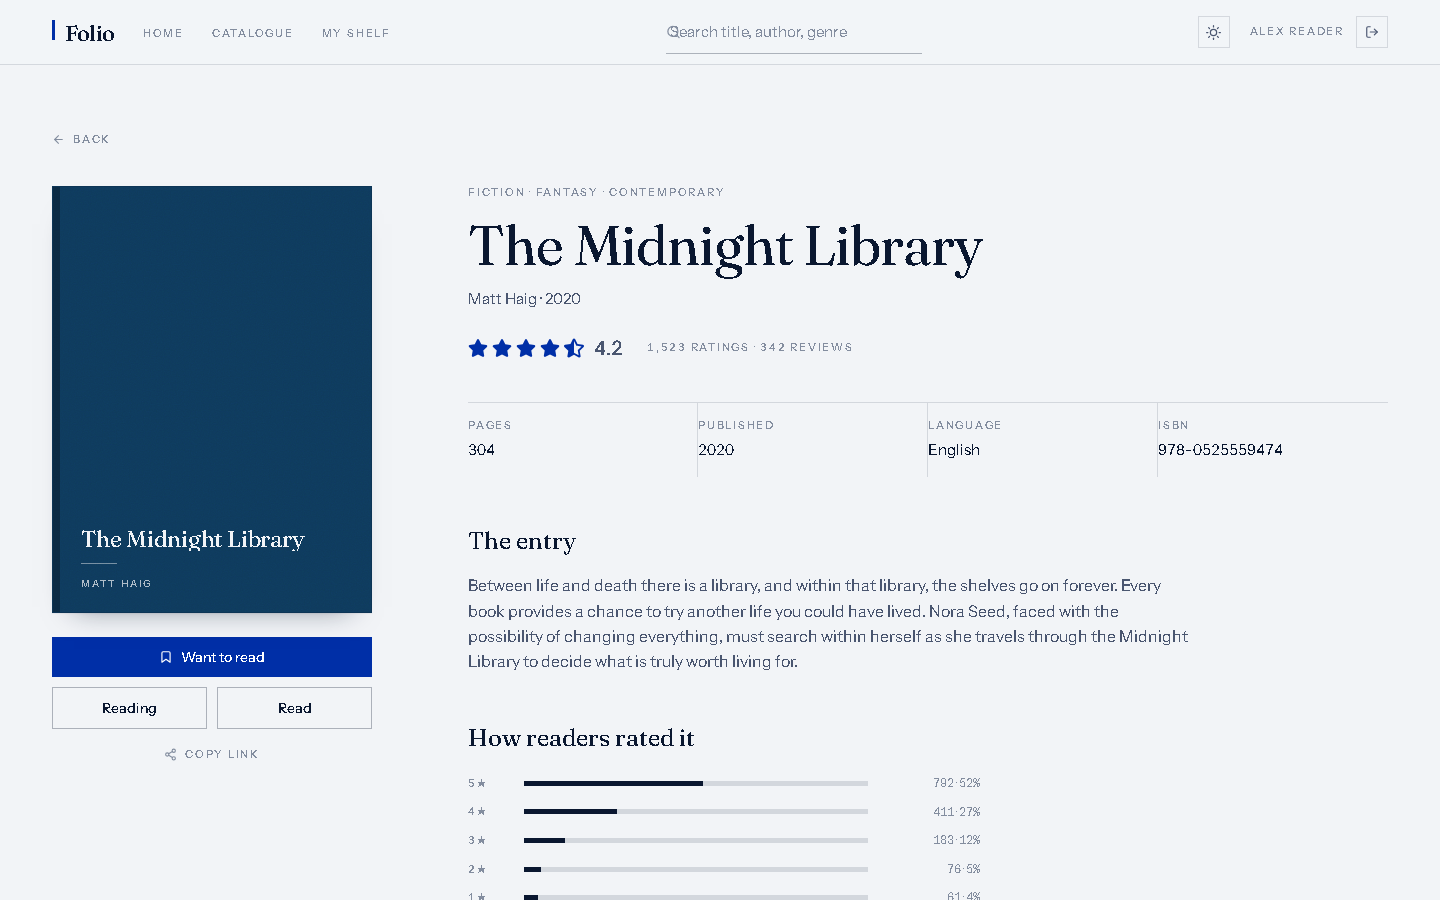
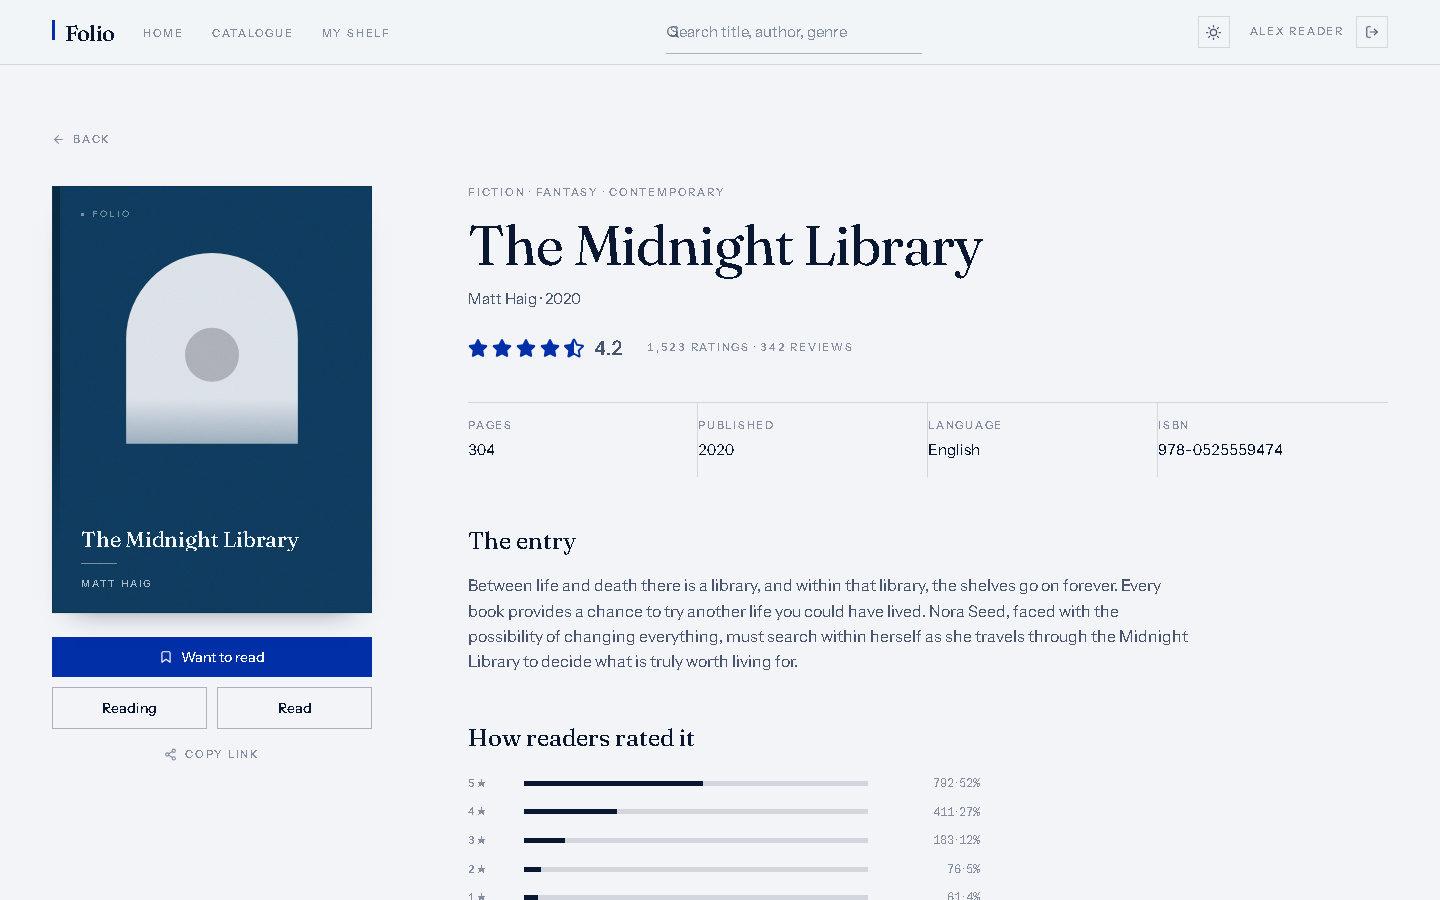
feat: composed cover artwork, aligned catalogue cards, tighter section rules

Changed region(s): [[0.0625, 0.28, 0.2188, 0.4978], [0.0938, 0.5911, 0.2188, 0.6222], [0.0312, 0.5911, 0.0625, 0.6844]]

diff --git a/src/components/common/BookCover.jsx b/src/components/common/BookCover.jsx
@@ -1,22 +1,132 @@
-// Typographic covers. Every book gets a designed jacket instead of a stock
-// photo: a colour field, a spine, the title set in the display serif, and a
-// printed grain. Deterministic per book, so covers never shuffle.
+// Designed jackets. No stock photography: every book gets a cover composed
+// from a colour field, a motif, a spine, and its own type — so the shelf reads
+// as artwork, loads instantly, and never breaks.
 
 const COVERS = [
-  { bg: '#002FA7', fg: '#FFFFFF' }, // International Klein Blue
-  { bg: '#0E3A5C', fg: '#F2F4F7' }, // Prussian
-  { bg: '#14453A', fg: '#F2F4F7' }, // Pine
-  { bg: '#3A2E5C', fg: '#F2F4F7' }, // Ink violet
-  { bg: '#7A2E2A', fg: '#F5EFE6' }, // Oxblood
-  { bg: '#57626F', fg: '#FFFFFF' }, // Slate
-  { bg: '#C9BFA8', fg: '#0A1730' }, // Bone
-  { bg: '#0B1B33', fg: '#C9BFA8' }, // Midnight
+  { bg: '#002FA7', fg: '#FFFFFF', motif: 'orbit' },
+  { bg: '#0E3A5C', fg: '#F2F4F7', motif: 'arch' },
+  { bg: '#14453A', fg: '#F2F4F7', motif: 'peak' },
+  { bg: '#3A2E5C', fg: '#F2F4F7', motif: 'grid' },
+  { bg: '#7A2E2A', fg: '#F5EFE6', motif: 'horizon' },
+  { bg: '#57626F', fg: '#FFFFFF', motif: 'stripes' },
+  { bg: '#C9BFA8', fg: '#0A1730', motif: 'waves' },
+  { bg: '#0B1B33', fg: '#C9BFA8', motif: 'frame' },
 ];
 
 const paletteFor = (book) => COVERS[(book.id * 5 + book.title.length) % COVERS.length];
 
+const Motif = ({ motif, fg }) => {
+  switch (motif) {
+    case 'orbit':
+      return (
+        <>
+          <circle cx="100" cy="104" r="56" fill={fg} fillOpacity="0.16" />
+          <circle cx="100" cy="104" r="38" fill={fg} fillOpacity="0.34" />
+          <circle cx="100" cy="104" r="19" fill={fg} fillOpacity="0.95" />
+          <rect x="36" y="164" width="128" height="2" fill={fg} fillOpacity="0.5" />
+        </>
+      );
+    case 'arch':
+      return (
+        <>
+          <path d="M46 178V112a54 54 0 0 1 108 0v66z" fill={fg} fillOpacity="0.9" />
+          <circle cx="100" cy="122" r="17" fill="#000" fillOpacity="0.22" />
+        </>
+      );
+    case 'peak':
+      return (
+        <>
+          <path d="M100 44 154 186H46z" fill={fg} fillOpacity="0.88" />
+          <circle cx="100" cy="72" r="11" fill="#000" fillOpacity="0.25" />
+          <rect x="36" y="196" width="128" height="2" fill={fg} fillOpacity="0.4" />
+        </>
+      );
+    case 'grid':
+      return (
+        <>
+          {[0, 1, 2].map((col) =>
+            [0, 1].map((row) => (
+              <rect
+                key={`${col}-${row}`}
+                x={36 + col * 44}
+                y={54 + row * 62}
+                width="34"
+                height="52"
+                fill={fg}
+                fillOpacity={0.22 + (col + row) * 0.2}
+              />
+            ))
+          )}
+        </>
+      );
+    case 'horizon':
+      return (
+        <>
+          <circle cx="100" cy="112" r="42" fill={fg} fillOpacity="0.92" />
+          <rect x="30" y="158" width="140" height="3" fill={fg} fillOpacity="0.85" />
+          <rect x="30" y="168" width="140" height="40" fill={fg} fillOpacity="0.16" />
+        </>
+      );
+    case 'stripes':
+      return (
+        <>
+          {[0, 1, 2, 3, 4].map((i) => (
+            <rect
+              key={i}
+              x={38 + i * 26}
+              y={40}
+              width={[7, 16, 7, 24, 7][i]}
+              height="118"
+              fill={fg}
+              fillOpacity={0.3 + i * 0.16}
+            />
+          ))}
+        </>
+      );
+    case 'waves':
+      return (
+        <>
+          {[0, 1, 2].map((i) => (
+            <path
+              key={i}
+              d={`M28 ${150 + i * 20}a72 34 0 0 1 144 0z`}
+              fill={fg}
+              fillOpacity={0.28 + i * 0.26}
+            />
+          ))}
+        </>
+      );
+    default:
+      return (
+        <>
+          <rect
+            x="28"
+            y="38"
+            width="144"
+            height="128"
+            fill="none"
+            stroke={fg}
+            strokeOpacity="0.5"
+            strokeWidth="1.5"
+          />
+          <rect
+            x="46"
+            y="56"
+            width="108"
+            height="92"
+            fill="none"
+            stroke={fg}
+            strokeOpacity="0.75"
+            strokeWidth="1.5"
+          />
+          <rect x="76" y="86" width="48" height="32" fill={fg} fillOpacity="0.92" />
+        </>
+      );
+  }
+};
+
 const BookCover = ({ book, className = 'aspect-[2/3]' }) => {
-  const { bg, fg } = paletteFor(book);
+  const { bg, fg, motif } = paletteFor(book);
 
   return (
     <figure
@@ -27,11 +137,33 @@ const BookCover = ({ book, className = 'aspect-[2/3]' }) => {
     >
       <span
         className="absolute inset-y-0 left-0 w-[7px]"
-        style={{ background: 'rgba(0,0,0,0.28)' }}
+        style={{ background: 'rgba(0,0,0,0.3)' }}
         aria-hidden="true"
       />
+
+      <svg
+        viewBox="0 0 200 300"
+        preserveAspectRatio="xMidYMid slice"
+        className="absolute inset-0 h-full w-full"
+        aria-hidden="true"
+      >
+        <Motif motif={motif} fg={fg} />
+      </svg>
+
+      {/* Scrim so the type stays legible over any motif. */}
+      <span
+        className="absolute inset-x-0 bottom-0 h-1/2"
+        style={{ background: `linear-gradient(to top, ${bg} 34%, transparent)` }}
+        aria-hidden="true"
+      />
+
+      <span className="absolute left-7 top-5 inline-flex items-center gap-2 text-[9px] font-medium uppercase tracking-[0.3em] opacity-45">
+        <span className="block h-[3px] w-[3px] bg-current" />
+        Folio
+      </span>
+
       <div className="relative flex h-full flex-col justify-end p-5 pl-7">
-        <h3 className="font-display text-[clamp(1.05rem,1.6vw,1.45rem)] leading-[1.1] tracking-[-0.01em] line-clamp-4">
+        <h3 className="font-display text-[clamp(1.05rem,1.5vw,1.4rem)] leading-[1.1] tracking-[-0.01em] line-clamp-3">
           {book.title}
         </h3>
         <span className="mt-3 block h-px w-9 bg-current opacity-45" aria-hidden="true" />

diff --git a/src/pages/HomePage.jsx b/src/pages/HomePage.jsx
@@ -9,20 +9,20 @@ import { getShelves } from '../lib/library';
 import { recommendBooks } from '../lib/recommend';
 import { useAuth } from '../hooks/useAuth';
 
-const SectionHead = ({ title, note, to, linkLabel = 'View all' }) => (
-  <div className="mb-9 flex flex-wrap items-end justify-between gap-4 border-b border-rule pb-4">
+const SectionHead = ({ title, note, to, count, linkLabel = 'View all' }) => (
+  <div className="mb-8 flex flex-wrap items-end justify-between gap-x-6 gap-y-2 border-b border-rule pb-3.5">
     <div>
       <h2 className="font-display text-[26px] leading-tight text-ink">{title}</h2>
       {note && <p className="mt-1.5 text-[13px] text-ink-2">{note}</p>}
     </div>
-    {to && (
-      <Link
-        to={to}
-        className="label transition-colors duration-200 hover:text-accent"
-      >
-        {linkLabel} →
-      </Link>
-    )}
+    <div className="flex items-center gap-6">
+      {count != null && <span className="label tnum">{count} titles</span>}
+      {to && (
+        <Link to={to} className="label transition-colors duration-200 hover:text-accent">
+          {linkLabel} →
+        </Link>
+      )}
+    </div>
   </div>
 );
 
@@ -54,8 +54,7 @@ const HomePage = () => {
       <section className="border-b border-rule">
         <PageContainer className="pb-14 pt-16 sm:pt-20">
           <p className="label">
-            A catalogue of {mockBooks.length} titles · {totalReviews.toLocaleString()} reader
-            reviews
+            September 2026 · A catalogue of {mockBooks.length} titles
           </p>
 
           <h1 className="display mt-7 max-w-[15ch] text-[clamp(2.75rem,7vw,5.25rem)] text-ink">
@@ -142,6 +141,7 @@ const HomePage = () => {
               title={`Recommended for ${user.name.split(' ')[0]}`}
               note="Picked from the shelves you've filled in."
               to="/explore"
+              count={recommended.length}
             />
             <BookGrid books={recommended} loading={loading} count={5} />
           </section>
@@ -152,6 +152,7 @@ const HomePage = () => {
             title="Highest rated"
             note="What readers would defend in an argument."
             to="/explore?sort=rating"
+            count={5}
           />
           <BookGrid books={loading ? [] : topRated.slice(0, 5)} loading={loading} count={5} />
         </section>
@@ -161,12 +162,18 @@ const HomePage = () => {
             title="Most reviewed"
             note="The titles people had the most to say about."
             to="/explore?sort=reviews"
+            count={5}
           />
           <BookGrid books={mostReviewed.slice(0, 5)} />
         </section>
 
         <section className="pb-4">
-          <SectionHead title="Newest" note="Most recent additions to the shelf." to="/explore?sort=recent" />
+          <SectionHead
+            title="Newest"
+            note="Most recent additions to the shelf."
+            to="/explore?sort=recent"
+            count={5}
+          />
           <BookGrid books={newest.slice(0, 5)} />
         </section>
       </PageContainer>

diff --git a/src/components/books/BookCard.jsx b/src/components/books/BookCard.jsx
@@ -2,18 +2,21 @@ import { Link } from 'react-router-dom';
 import BookCover from '../common/BookCover';
 import Rating from '../common/Rating';
 
-// Titles are held to two lines so the meta rows line up across a shelf.
+// Meta is pinned to the bottom so every card in a row lines up, whatever the
+// title length.
 const BookCard = ({ book }) => (
-  <Link to={`/book/${book.id}`} className="group block">
+  <Link to={`/book/${book.id}`} className="group flex h-full flex-col">
     <BookCover book={book} />
-    <div className="mt-4">
-      <h3 className="min-h-[2.9em] font-display text-[15.5px] font-medium leading-snug text-ink line-clamp-2">
+
+    <div className="mt-4 flex flex-1 flex-col">
+      <h3 className="font-display text-[15.5px] font-medium leading-snug text-ink line-clamp-2">
         {book.title}
       </h3>
       <p className="mt-1 text-[13px] text-ink-2 line-clamp-1">{book.author}</p>
-      <div className="mt-2.5 flex items-center justify-between gap-3">
+
+      <div className="mt-auto flex items-center gap-2 border-t border-rule pt-2.5">
         <Rating rating={book.rating} size="xs" />
-        <span className="label tnum">{book.publishYear}</span>
+        <span className="label tnum">· {book.publishYear}</span>
       </div>
     </div>
   </Link>

diff --git a/src/components/books/BookGrid.jsx b/src/components/books/BookGrid.jsx
@@ -3,9 +3,10 @@ import BookCard from './BookCard';
 const Placeholder = () => (
   <div>
     <div className="placeholder-block aspect-[2/3] w-full" />
-    <div className="mt-4 space-y-2">
+    <div className="mt-4 space-y-2.5">
       <div className="placeholder-block h-3.5 w-4/5" />
       <div className="placeholder-block h-3 w-1/3" />
+      <div className="placeholder-block h-3 w-1/2" />
     </div>
   </div>
 );
@@ -13,7 +14,7 @@ const Placeholder = () => (
 const BookGrid = ({ books, loading = false, count }) => {
   if (loading) {
     return (
-      <div className="grid grid-cols-2 gap-x-6 gap-y-10 sm:grid-cols-3 lg:grid-cols-4 xl:grid-cols-5">
+      <div className="grid grid-cols-2 gap-x-6 gap-y-12 sm:grid-cols-3 lg:grid-cols-4 xl:grid-cols-5">
         {Array.from({ length: count ?? 10 }, (_, i) => (
           <Placeholder key={i} />
         ))}
@@ -31,7 +32,7 @@ const BookGrid = ({ books, loading = false, count }) => {
   }
 
   return (
-    <div className="stagger grid grid-cols-2 gap-x-6 gap-y-10 sm:grid-cols-3 lg:grid-cols-4 xl:grid-cols-5">
+    <div className="stagger grid grid-cols-2 gap-x-6 gap-y-12 sm:grid-cols-3 lg:grid-cols-4 xl:grid-cols-5">
       {books.map((book) => (
         <BookCard key={book.id} book={book} />
       ))}

diff --git a/src/components/layout/Header.jsx b/src/components/layout/Header.jsx
@@ -46,8 +46,8 @@ const Header = () => {
   const searchField = (
     <div className="relative w-full">
       <FiSearch
-        className="pointer-events-none absolute left-0 top-1/2 -translate-y-1/2 text-ink-3"
-        size={15}
+        className="pointer-events-none absolute left-0 top-1/2 -translate-y-1/2 text-ink-2"
+        size={14}
       />
       <input
         type="search"

diff --git a/README.md b/README.md
@@ -27,7 +27,7 @@ Live demo: https://0x-shadow.github.io/folio/
 
 Folio's interface borrows from print catalogues rather than app stores:
 
-- **Typographic covers** — no stock photography. Every book gets a designed jacket (colour field, spine, serif title, printed grain) from a palette that includes International Klein Blue. Covers are deterministic, so they never shuffle or fail to load.
+- **Designed jackets, not stock photos** — every book gets a cover composed from a colour field, a motif (arch, orbit, horizon, grid, stripes, peak, waves, frame), a spine, an imprint mark, and its own type. Covers are deterministic per book, drawn locally as SVG, so they load instantly, never shuffle, and never break.
 - **Paper, ink, one blue** — three inks and a single accent (`#002FA7`) on cool paper, inverted to near-black ink for dark mode. Hairline rules divide space; shadows are reserved for the covers.
 - **Type** — [Fraunces](https://fonts.google.com/specimen/Fraunces) for display, [Instrument Sans](https://fonts.google.com/specimen/Instrument+Sans) for text, with letterspaced small-caps labels in the place of badges.
 - **Restrained motion** — page rise, a progress rule on navigation, covers lifting on hover, and a timed cross-fade when the appearance switches. Everything respects `prefers-reduced-motion`.
@@ -37,8 +37,7 @@ Folio's interface borrows from print catalogues rather than app stores:
 | Path | What it is | Status |
 |------|------------|--------|
 | `src/pages/` | Front, catalogue, entry, shelf, search, sign-in, onboarding, 404 | ✅ Develop here |
-| `src/components/` | Covers, cards, rating, filters, reviews, layout | ✅ Develop here |
-| `src/context/` + `src/hooks/` | Auth and theme providers, `useAuth` / `useTheme` | ✅ Develop here |
+| `src/components/` | Covers, cards, rating, filters, reviews, layout | ✅ Develop here || `src/context/` + `src/hooks/` | Auth and theme providers, `useAuth` / `useTheme` | ✅ Develop here |
 | `src/lib/` | Safe storage, shelf store, review store, recommendation engine | ✅ Develop here |
 | `src/data/` | Catalogue data (books, reviews, shelves, genres) | ✅ Develop here |
 | `src/index.css` | Design tokens (paper / ink / cobalt), type scale, motion | ✅ Develop here |
